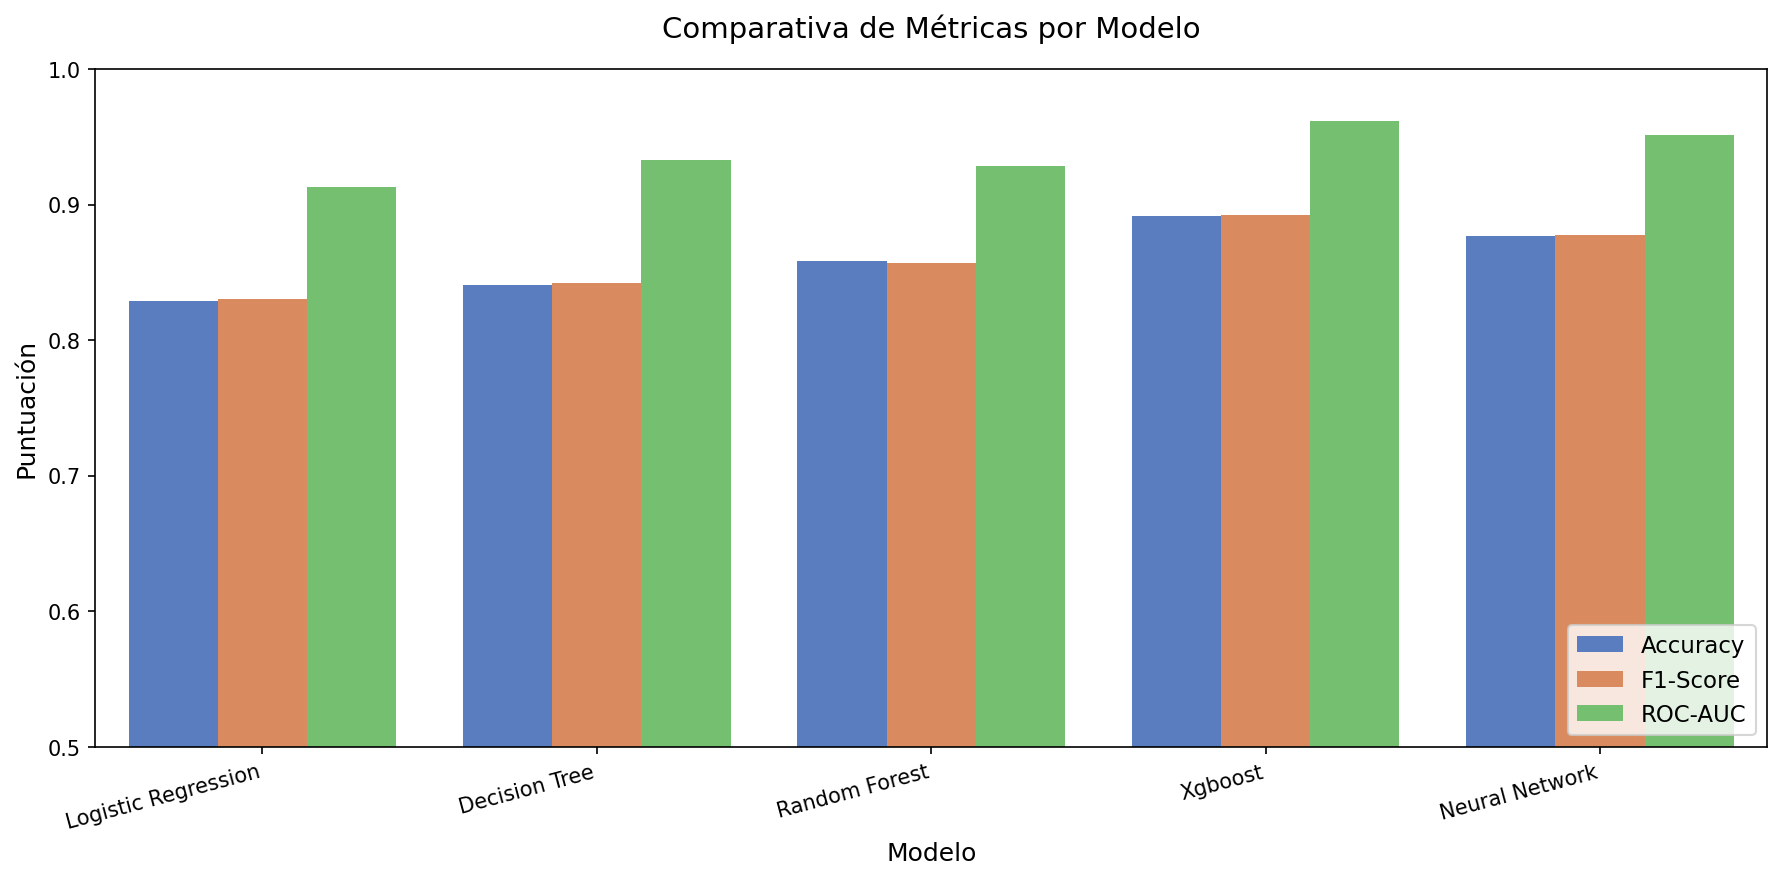
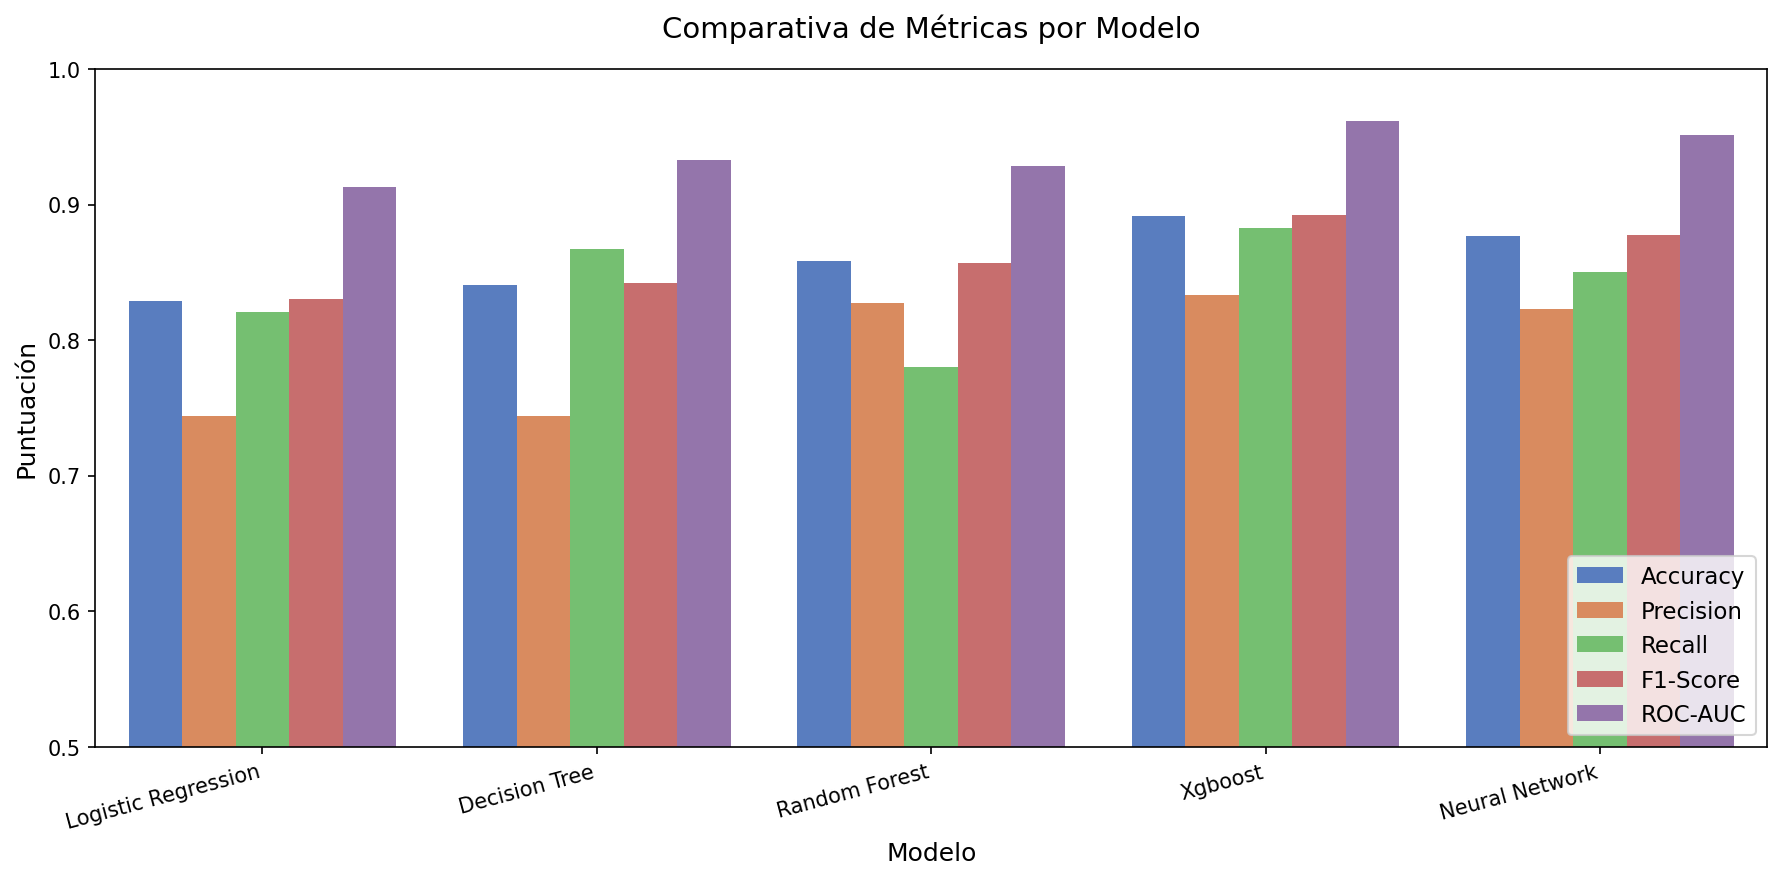
Ultima ejecucion

diff --git a/src/data_loader.py b/src/data_loader.py
@@ -69,6 +69,27 @@ def load_data(file_path=RAW_DATA_PATH):
     return pd.read_csv(file_path, na_values=NA_TOKENS, keep_default_na=True)
 
 
+class CastToString(BaseEstimator, TransformerMixin):
+    """Convierte todas las columnas a str para uniformar los tipos antes del OneHotEncoder.
+
+    Necesario cuando una columna categórica (e.g. agent) contiene valores numéricos
+    (float/int) mezclados con la cadena 'Unknown' introducida por el SimpleImputer.
+    """
+
+    def fit(self, X, y=None):
+        return self
+
+    def transform(self, X):
+        if hasattr(X, "astype"):
+            return X.astype(str)
+        return np.array(X, dtype=str)
+
+    def get_feature_names_out(self, input_features=None):
+        if input_features is not None:
+            return np.array(input_features, dtype=object)
+        return np.array([], dtype=object)
+
+
 def preprocess_and_split(df):
     """Limpia el dataframe, lo divide en train/test y construye el preprocessor sklearn.
 
@@ -109,6 +130,7 @@ def preprocess_and_split(df):
     cat_pipeline = Pipeline(
         [
             ("imputer", SimpleImputer(strategy="constant", fill_value="Unknown")),
+            ("cast_str", CastToString()),
             ("onehot", OneHotEncoder(handle_unknown="ignore", sparse_output=False)),
         ]
     )

diff --git a/src/model_trainer.py b/src/model_trainer.py
@@ -49,7 +49,10 @@ class KerasMLPClassifier(ClassifierMixin, BaseEstimator):
         random_state=config.RANDOM_STATE,
         verbose=0,
     ):
-        """Inicializa el clasificador con los hiperparámetros de la red neuronal con valores por defecto razonables."""
+        """
+        Inicializa el clasificador con los hiperparámetros de la red neuronal
+        con valores por defecto razonables.
+        """
         self.epochs = epochs
         self.batch_size = batch_size
         self.learning_rate = learning_rate

diff --git a/src/evaluator.py b/src/evaluator.py
@@ -152,7 +152,10 @@ def plot_feature_importances(model_name="xgboost", top_n=15):
 
 
 def plot_model_comparison_chart(models_results):
-    """Dibuja y guarda un barplot agrupado comparando Accuracy, Precision, Recall, F1 y AUC por modelo."""
+    """
+    Dibuja y guarda un barplot agrupado comparando:
+      Accuracy, Precision, Recall, F1 y AUC por modelo.
+      """
     records = []
     for name, metrics in models_results.items():
         label = name.replace("_", " ").title()

diff --git a/main.py b/main.py
@@ -7,9 +7,9 @@ import mlflow
 from src.config import (
     MODEL_NAMES,
     MODELS_DIR,
-    PROCESSED_DATA_DIR,
-    NN_EPOCHS,
     NN_BATCH_SIZE,
+    NN_EPOCHS,
+    PROCESSED_DATA_DIR,
     setup_dirs,
 )
 from src.data_loader import load_data, preprocess_and_split
